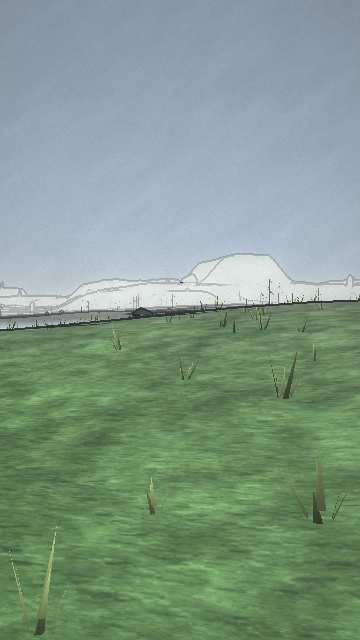
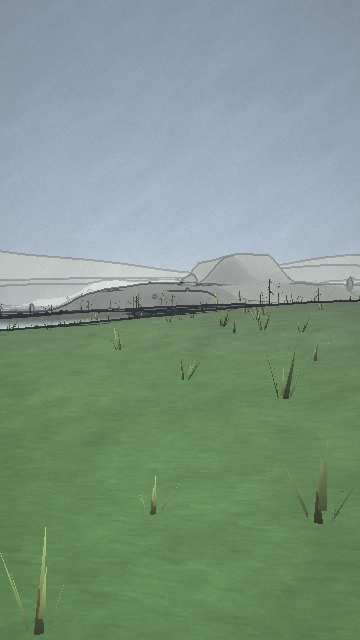
Stones without facets, rounded fieldstone ruins; other worlds' land in flat colour and an inked sun
Claude-Session: https://claude.ai/code/session_014wgBnrhFywhHNcxJDAeGBq

diff --git a/dist/index.html b/dist/index.html
@@ -14229,12 +14229,15 @@
     out[3] = snow / t2;
     return out;
   }
+  var GROUND_FLAT = { value: 0 };
+  var setGroundFlat = (v) => GROUND_FLAT.value = v;
   function groundMaterial() {
     const mat = new THREE.MeshLambertMaterial({ vertexColors: true });
     if (!paintOn()) return mat;
     const tex = groundTexture();
     mat.onBeforeCompile = (sh) => {
       sh.uniforms.groundMap = { value: tex };
+      sh.uniforms.groundFlat = GROUND_FLAT;
       sh.vertexShader = sh.vertexShader.replace(
         "#include <common>",
         "#include <common>\nattribute vec4 surf;\nvarying vec4 vSurf;\nvarying vec2 vGround;\nvarying float vNear;"
@@ -14244,11 +14247,11 @@
       );
       sh.fragmentShader = sh.fragmentShader.replace(
         "#include <common>",
-        "#include <common>\nuniform sampler2D groundMap;\nvarying vec4 vSurf;\nvarying vec2 vGround;\nvarying float vNear;"
+        "#include <common>\nuniform sampler2D groundMap;\nuniform float groundFlat;\nvarying vec4 vSurf;\nvarying vec2 vGround;\nvarying float vNear;"
       ).replace(
         "#include <color_fragment>",
         // the grain, and close up a second, finer pass of it (a detail texture) so near ground stays crisp
-        "#include <color_fragment>\nfloat grain = dot(texture2D(groundMap, vGround), vSurf);\nfloat fineG = dot(texture2D(groundMap, vGround * 4.37 + 0.31), vSurf);\ndiffuseColor.rgb *= mix(1.0, 0.55 + 0.9 * grain, 0.35 + 0.65 * vNear) * mix(1.0, 0.75 + 0.5 * fineG, vNear * vNear);"
+        "#include <color_fragment>\nfloat grain = dot(texture2D(groundMap, vGround), vSurf);\nfloat fineG = dot(texture2D(groundMap, vGround * 4.37 + 0.31), vSurf);\ndiffuseColor.rgb *= mix(mix(1.0, 0.55 + 0.9 * grain, 0.35 + 0.65 * vNear) * mix(1.0, 0.75 + 0.5 * fineG, vNear * vNear), 1.0, groundFlat);"
       );
     };
     mat.customProgramCacheKey = () => "ground-painted";
@@ -15618,6 +15621,7 @@ vFade = sin(ph * 3.14159);`
   }
 
   // src/view/ruins.js
+  var ROUND = () => toonOn() ? 1 : 0;
   LOOK_SWITCHES.push(["ruins", "Ruins with character"]);
   var ruinsOn = () => lookOn("ruins") && lookOn("light");
   function dice2(seed) {
@@ -15664,10 +15668,10 @@ vFade = sin(ph * 3.14159);`
         const taper = Z2.st.taper ? 1 - k / rows * 0.25 : 1, y = k * bh + bh / 2, w = len / cols * (0.94 + r() * 0.06);
         if (Z2.st.rough)
           Z2.stone.add(
-            P4.blob(bh * 0.75, 0),
+            P4.blob(bh * 0.75, ROUND()),
             Z2.colAt(y, r),
             { x, y, z, ry: r() * 6, sx: w / bh * 0.7, sz: t2 * 0.8 },
-            { flat: true, uv: 1.5 }
+            { flat: !ROUND(), uv: 1.5 }
           );
         else Z2.stone.add(P4.box(w, bh * 0.97, t2 * taper), Z2.colAt(y, r), { x, y, z, ry: ry + (r() - 0.5) * 0.05 }, { uv: 1.5 });
       }
@@ -16080,26 +16084,26 @@ ${rich ? `{
       }
       geo.setAttribute("wa", new THREE.BufferAttribute(wa, 3));
       geo.setAttribute("color", new THREE.BufferAttribute(col, 3));
-      const g2 = new THREE.Group(), rim2 = new THREE.Mesh(
+      const g2 = new THREE.Group(), rim3 = new THREE.Mesh(
         new THREE.RingGeometry(r * 0.96, r * 1.12, 20).rotateX(-Math.PI / 2),
         new THREE.MeshBasicMaterial({ color: foul ? 4867624 : 6978138, transparent: true, opacity: 0.7, depthWrite: false })
       ), m2 = new THREE.Mesh(geo, waterMat());
-      rim2.position.y = -0.02;
+      rim3.position.y = -0.02;
       m2.renderOrder = 2;
-      g2.add(m2, rim2);
+      g2.add(m2, rim3);
       return g2;
     }
     const m = new THREE.Mesh(
       new THREE.CircleGeometry(r, 20).rotateX(-Math.PI / 2),
       new THREE.MeshBasicMaterial({ color: foul ? 7301685 : 4889288, map: rippleTex() })
     );
-    const rim = new THREE.Mesh(
+    const rim2 = new THREE.Mesh(
       new THREE.RingGeometry(r * 0.96, r * 1.12, 20).rotateX(-Math.PI / 2),
       new THREE.MeshBasicMaterial({ color: foul ? 4867624 : 6978138, transparent: true, opacity: 0.7, depthWrite: false })
     );
-    rim.position.y = -0.02;
+    rim2.position.y = -0.02;
     const g = new THREE.Group();
-    g.add(m, rim);
+    g.add(m, rim2);
     return g;
   }
   function blob(r) {
@@ -17145,6 +17149,23 @@ vGlow = bone > 7.5 ? 1.0 : 0.0;`
     });
     return group2;
   }
+  function rockGeo() {
+    const smooth2 = !!toonMat(), g = new THREE.IcosahedronGeometry(1, 0);
+    if (smooth2) {
+      const p = g.attributes.position, v = new THREE.Vector3();
+      for (let i = 0; i < p.count; i++) {
+        v.fromBufferAttribute(p, i);
+        const k = 1 + 0.12 * Math.sin(v.x * 3.1 + 1.3) * Math.cos(v.z * 2.7) + 0.07 * Math.sin(v.y * 4.3 + 0.5);
+        p.setXYZ(i, v.x * k, v.y * k * 0.85, v.z * k);
+      }
+      g.computeVertexNormals();
+      smoothNormals(g);
+      g.setAttribute("normal", g.attributes.outN);
+      g.deleteAttribute("outN");
+    } else g.computeVertexNormals();
+    g.faceted = true;
+    return g;
+  }
   var glow = (color, opacity) => new THREE.MeshBasicMaterial({ color, fog: false, transparent: opacity < 1, opacity, depthWrite: opacity >= 1 });
   var box2 = (w, h, d, mat, x, y, z) => {
     const m = new THREE.Mesh(new THREE.BoxGeometry(w, h, d), mat);
@@ -18104,9 +18125,7 @@ vGlow = bone > 7.5 ? 1.0 : 0.0;`
     };
     yield;
     pal.forEach((p, bi) => {
-      const rock = new THREE.IcosahedronGeometry(1, 0);
-      rock.computeVertexNormals();
-      rock.faceted = true;
+      const rock = rockGeo();
       instances(rock, std(p.cols[2].clone().multiplyScalar(0.85)), rocks[bi]);
       const forest = land2.biomes[bi].forest;
       if (shaped) {
@@ -18506,6 +18525,16 @@ vGlow = bone > 7.5 ? 1.0 : 0.0;`
     m.frustumCulled = false;
     return m;
   };
+  var rim = (r) => {
+    const m = new THREE.Mesh(
+      new THREE.RingGeometry(r, r * 1.06, 40),
+      new THREE.MeshBasicMaterial({ color: 2763322, fog: false, transparent: true, depthWrite: false })
+    );
+    m.renderOrder = -8;
+    m.frustumCulled = false;
+    m.userData.rim = true;
+    return m;
+  };
   function kindOf5(name) {
     const n = (name || "").toLowerCase();
     if (/snow|blizzard/.test(n)) return "snow";
@@ -18637,7 +18666,9 @@ vGlow = bone > 7.5 ? 1.0 : 0.0;`
     if (on3 && !dome) {
       dome = makeDome();
       sunDisc = disc(70, 16773832);
+      sunDisc.add(rim(70));
       moonDisc = disc(40, 14673648);
+      moonDisc.add(rim(40));
       scene.add(dome, sunDisc, moonDisc);
     }
     if (dome) {
@@ -18649,9 +18680,16 @@ vGlow = bone > 7.5 ? 1.0 : 0.0;`
         sunDisc.position.copy(camera.position).add(d);
         sunDisc.lookAt(camera.position);
         sunDisc.material.opacity = storm ? 0 : Math.max(0, Math.min(1, day * 1.5));
+        const ink = NOW.look ? NOW.look.line : 0;
+        for (const dsc of [sunDisc, moonDisc])
+          for (const r of dsc.children) {
+            r.visible = ink > 0.5;
+            if (r.visible) r.material.color.setRGB(NOW.look.ink[0], NOW.look.ink[1], NOW.look.ink[2]);
+          }
         moonDisc.position.copy(camera.position).sub(d.setY(Math.abs(d.y)));
         moonDisc.lookAt(camera.position);
         moonDisc.material.opacity = storm ? 0 : Math.max(0, 0.9 - day * 1.6);
+        for (const dsc of [sunDisc, moonDisc]) for (const r of dsc.children) r.material.opacity = dsc.material.opacity * 0.8;
       }
     }
     const kind2 = Q.weather > 0 && storm && !R.indoors(V.S) ? kindOf5(storm.name) : "";
@@ -19578,6 +19616,7 @@ vGlow = bone > 7.5 ? 1.0 : 0.0;`
     if (lk) setBands(lk.bands, lk.soft);
     else setBands(3, 0.45);
     setOutline(lk, window.innerHeight);
+    setGroundFlat(lk ? Math.min(1, lk.line) * 0.75 : 0);
     lightOutdoors(h, day, dusk, skyC, !!storm, sight, lk);
     sun.position.x += P3.x;
     sun.position.z += P3.z;

diff --git a/src/view/paint.js b/src/view/paint.js
@@ -142,6 +142,9 @@ function surfaceOf(c, steep, out) {
   out[3] = snow / t;
   return out;
 }
+// How far the ground's painted grain is flattened toward plain colour (C6: other worlds, drawn in clean line).
+const GROUND_FLAT = { value: 0 };
+const setGroundFlat = (v) => (GROUND_FLAT.value = v);
 // The ground's material: Lambert with vertex colours, and, when painted, the four grains mixed by the `surf` weights,
 // faded out with distance (where they would only shimmer).
 function groundMaterial() {
@@ -150,6 +153,7 @@ function groundMaterial() {
   const tex = groundTexture();
   mat.onBeforeCompile = (sh) => {
     sh.uniforms.groundMap = { value: tex };
+    sh.uniforms.groundFlat = GROUND_FLAT;
     sh.vertexShader = sh.vertexShader
       .replace(
         '#include <common>',
@@ -162,12 +166,12 @@ function groundMaterial() {
     sh.fragmentShader = sh.fragmentShader
       .replace(
         '#include <common>',
-        '#include <common>\nuniform sampler2D groundMap;\nvarying vec4 vSurf;\nvarying vec2 vGround;\nvarying float vNear;',
+        '#include <common>\nuniform sampler2D groundMap;\nuniform float groundFlat;\nvarying vec4 vSurf;\nvarying vec2 vGround;\nvarying float vNear;',
       )
       .replace(
         '#include <color_fragment>',
         // the grain, and close up a second, finer pass of it (a detail texture) so near ground stays crisp
-        '#include <color_fragment>\nfloat grain = dot(texture2D(groundMap, vGround), vSurf);\nfloat fineG = dot(texture2D(groundMap, vGround * 4.37 + 0.31), vSurf);\ndiffuseColor.rgb *= mix(1.0, 0.55 + 0.9 * grain, 0.35 + 0.65 * vNear) * mix(1.0, 0.75 + 0.5 * fineG, vNear * vNear);',
+        '#include <color_fragment>\nfloat grain = dot(texture2D(groundMap, vGround), vSurf);\nfloat fineG = dot(texture2D(groundMap, vGround * 4.37 + 0.31), vSurf);\ndiffuseColor.rgb *= mix(mix(1.0, 0.55 + 0.9 * grain, 0.35 + 0.65 * vNear) * mix(1.0, 0.75 + 0.5 * fineG, vNear * vNear), 1.0, groundFlat);',
       );
   };
   mat.customProgramCacheKey = () => 'ground-painted';
@@ -489,7 +493,7 @@ function surface(name, v) {
   return (SURF[key] = t);
 }
 const SURFACES = Object.keys(MAKERS);
-export { groundMaterial, groundTexture, surfaceOf, surface, paintOn, SURFACES, warmSurfaces };
+export { groundMaterial, groundTexture, surfaceOf, surface, paintOn, SURFACES, warmSurfaces, setGroundFlat };
 // Make every surface ahead of need, one at a time when the page is idle, so the first town seen does not wait for its
 // textures (each takes up to a few tens of milliseconds at High's size).
 function warmSurfaces() {

diff --git a/src/view/scene.js b/src/view/scene.js
@@ -17,6 +17,7 @@ import { actorsOn, clearActors, creatureActor, markKilled, personActor, settleAc
 R.on('killed', (s, d) => d && d.c && markKilled(d.c.id));
 import { kitMat } from './kit.js';
 import { toonMat } from './toon.js';
+import { smoothNormals } from './outline.js';
 import { makeLOD, plantsOn, treeMat, treeModel, updateLOD } from './plants.js';
 
 /* ---------- scene ---------- */
@@ -84,6 +85,28 @@ function facet(group) {
     }
   });
   return group;
+}
+/* A rock. With the toon bands on (C6), a stone a little squashed and dented the same way every time, with its normals
+   smoothed so its light falls in soft bands rather than facets (polygons should not read as polygons); otherwise the
+   old cut-faced one. Twenty faces either way: there are thousands of rocks. */
+function rockGeo() {
+  const smooth = !!toonMat(),
+    g = new THREE.IcosahedronGeometry(1, 0); // twenty faces: there are thousands of rocks
+  if (smooth) {
+    const p = g.attributes.position,
+      v = new THREE.Vector3();
+    for (let i = 0; i < p.count; i++) {
+      v.fromBufferAttribute(p, i);
+      const k = 1 + 0.12 * Math.sin(v.x * 3.1 + 1.3) * Math.cos(v.z * 2.7) + 0.07 * Math.sin(v.y * 4.3 + 0.5);
+      p.setXYZ(i, v.x * k, v.y * k * 0.85, v.z * k);
+    }
+    g.computeVertexNormals();
+    smoothNormals(g);
+    g.setAttribute('normal', g.attributes.outN);
+    g.deleteAttribute('outN');
+  } else g.computeVertexNormals(); // one normal per face: a rock with cut faces
+  g.faceted = true;
+  return g;
 }
 const glow = (color, opacity) =>
   new THREE.MeshBasicMaterial({ color, fog: false, transparent: opacity < 1, opacity, depthWrite: opacity >= 1 });
@@ -1255,9 +1278,7 @@ function* buildLand(S, timed) {
   };
   yield;
   pal.forEach((p, bi) => {
-    const rock = new THREE.IcosahedronGeometry(1, 0);
-    rock.computeVertexNormals(); // one normal per face: a rock with cut faces
-    rock.faceted = true;
+    const rock = rockGeo();
     instances(rock, std(p.cols[2].clone().multiplyScalar(0.85)), rocks[bi]);
     const forest = land.biomes[bi].forest;
     if (shaped) {

diff --git a/src/view/sky.js b/src/view/sky.js
@@ -93,6 +93,17 @@ const disc = (r, color) => {
   m.frustumCulled = false;
   return m;
 };
+// A thin inked ring round a disc, shown only where the look draws ink lines.
+const rim = (r) => {
+  const m = new THREE.Mesh(
+    new THREE.RingGeometry(r, r * 1.06, 40),
+    new THREE.MeshBasicMaterial({ color: 0x2a2a3a, fog: false, transparent: true, depthWrite: false }),
+  );
+  m.renderOrder = -8;
+  m.frustumCulled = false;
+  m.userData.rim = true;
+  return m;
+};
 // What falls in a storm, from its name.
 function kindOf(name) {
   const n = (name || '').toLowerCase();
@@ -247,7 +258,10 @@ function updateSky(skyColor, sunPos, day, storm, dt) {
   if (on && !dome) {
     dome = makeDome();
     sunDisc = disc(70, 0xfff2c8);
+    // in other worlds drawn in clean line the sun and moon get an inked rim (C6)
+    sunDisc.add(rim(70));
     moonDisc = disc(40, 0xdfe6f0);
+    moonDisc.add(rim(40));
     scene.add(dome, sunDisc, moonDisc);
   }
   if (dome) {
@@ -262,9 +276,16 @@ function updateSky(skyColor, sunPos, day, storm, dt) {
       sunDisc.position.copy(camera.position).add(d);
       sunDisc.lookAt(camera.position);
       sunDisc.material.opacity = storm ? 0 : Math.max(0, Math.min(1, day * 1.5));
+      const ink = NOW.look ? NOW.look.line : 0;
+      for (const dsc of [sunDisc, moonDisc])
+        for (const r of dsc.children) {
+          r.visible = ink > 0.5;
+          if (r.visible) r.material.color.setRGB(NOW.look.ink[0], NOW.look.ink[1], NOW.look.ink[2]);
+        }
       moonDisc.position.copy(camera.position).sub(d.setY(Math.abs(d.y)));
       moonDisc.lookAt(camera.position);
       moonDisc.material.opacity = storm ? 0 : Math.max(0, 0.9 - day * 1.6);
+      for (const dsc of [sunDisc, moonDisc]) for (const r of dsc.children) r.material.opacity = dsc.material.opacity * 0.8;
     }
   }
   // what falls in the storm

diff --git a/src/view/ruins.js b/src/view/ruins.js
@@ -14,6 +14,9 @@
 import { R } from './ctx.js';
 import { P, kit, kitMat } from './kit.js';
 import { addOutline } from './outline.js';
+import { toonOn } from './toon.js';
+// fieldstones: rounded and softly banded with the toon bands on (C6), cut-faced otherwise
+const ROUND = () => (toonOn() ? 1 : 0);
 import { surface } from './paint.js';
 import { LOOK_SWITCHES, lookOn } from './quality.js';
 
@@ -80,10 +83,10 @@ function wall(Z, x0, z0, x1, z1, h, t, o) {
         w = (len / cols) * (0.94 + r() * 0.06);
       if (Z.st.rough)
         Z.stone.add(
-          P.blob(bh * 0.75, 0),
+          P.blob(bh * 0.75, ROUND()),
           Z.colAt(y, r),
           { x, y, z, ry: r() * 6, sx: (w / bh) * 0.7, sz: t * 0.8 },
-          { flat: true, uv: 1.5 },
+          { flat: !ROUND(), uv: 1.5 },
         );
       else Z.stone.add(P.box(w, bh * 0.97, t * taper), Z.colAt(y, r), { x, y, z, ry: ry + (r() - 0.5) * 0.05 }, { uv: 1.5 });
     }

diff --git a/src/view/run.js b/src/view/run.js
@@ -26,7 +26,7 @@ import { animateActors, forgetActors, shiftActors } from './actors.js';
 import { updateSound } from './sound.js';
 import { updateFx } from './fx.js';
 import { setWaterSky } from './water.js';
-import { warmSurfaces } from './paint.js';
+import { setGroundFlat, warmSurfaces } from './paint.js';
 import { draw as drawFrame } from './post.js';
 import { updateLook } from './mood.js';
 import { fogBandsOn, setBands } from './toon.js';
@@ -336,6 +336,7 @@ function frame() {
   if (lk) setBands(lk.bands, lk.soft);
   else setBands(3, 0.45);
   setOutline(lk, window.innerHeight);
+  setGroundFlat(lk ? Math.min(1, lk.line) * 0.75 : 0); // other worlds: the land in flat colour
   lightOutdoors(h, day, dusk, skyC, !!storm, sight, lk);
   // the sun shines the same way from wherever the player is, so its shadows follow them
   sun.position.x += P.x;

diff --git a/JOURNAL.md b/JOURNAL.md
@@ -17,6 +17,33 @@ there and 396 ms here. Set `CHROME=/opt/pw-browsers/chromium` in a cloud session
 
 The page was 774 KB.
 
+## C6.7: stones without facets, flat land through the door, an inked sun
+
+**What it is.**
+- **Rocks** (from Low): the same twenty faces as before (there are thousands of them), but a little squashed and
+  dented, with their normals smoothed, so their light falls in the toon's soft bands instead of cut facets. A first
+  try with eighty faces each looked rounder but put 213,000 triangles on the land (16% on the frame here), so it was
+  taken back.
+- **Fieldstone ruins** (the "rough" style of building): their blocks are rounded stones softly banded, not a heap of
+  dice.
+- **Other worlds' land** is drawn in flat colour: the ground's painted grain is flattened 75% toward its plain colour
+  while the ink is on (`setGroundFlat`, paint.js), so the clean line has clean colour to sit on.
+- **An inked rim** round the sun and the moon in other worlds.
+
+**Switches.** Part of `toon` (rocks, stones) and `ink` (flat land, rims).
+
+| | build ms | draw calls | triangles | frame ms |
+| --- | --- | --- | --- | --- |
+| Fallback | 84 | 73 | 106,484 | 74.7 |
+| Low | 346 | 124 | 590,406 | 409.8 |
+| Medium | 348 | 146 | 613,464 | 412.8 |
+| High | 398 | 154 | 785,930 | 531.3 |
+
+(12,000 triangles more than C6.6 is the rounded fieldstones of ruins in view.)
+
+**Verdict.** Pearl for the flat land in other worlds (it is what made them look drawn rather than filtered); small for
+the rest.
+
 ## C6.6: far hills in bands
 
 **What it is** (`skyline.js`). Beyond the land that is drawn, two to four rings of ridges (Low 2, Medium 3, High 4) at
